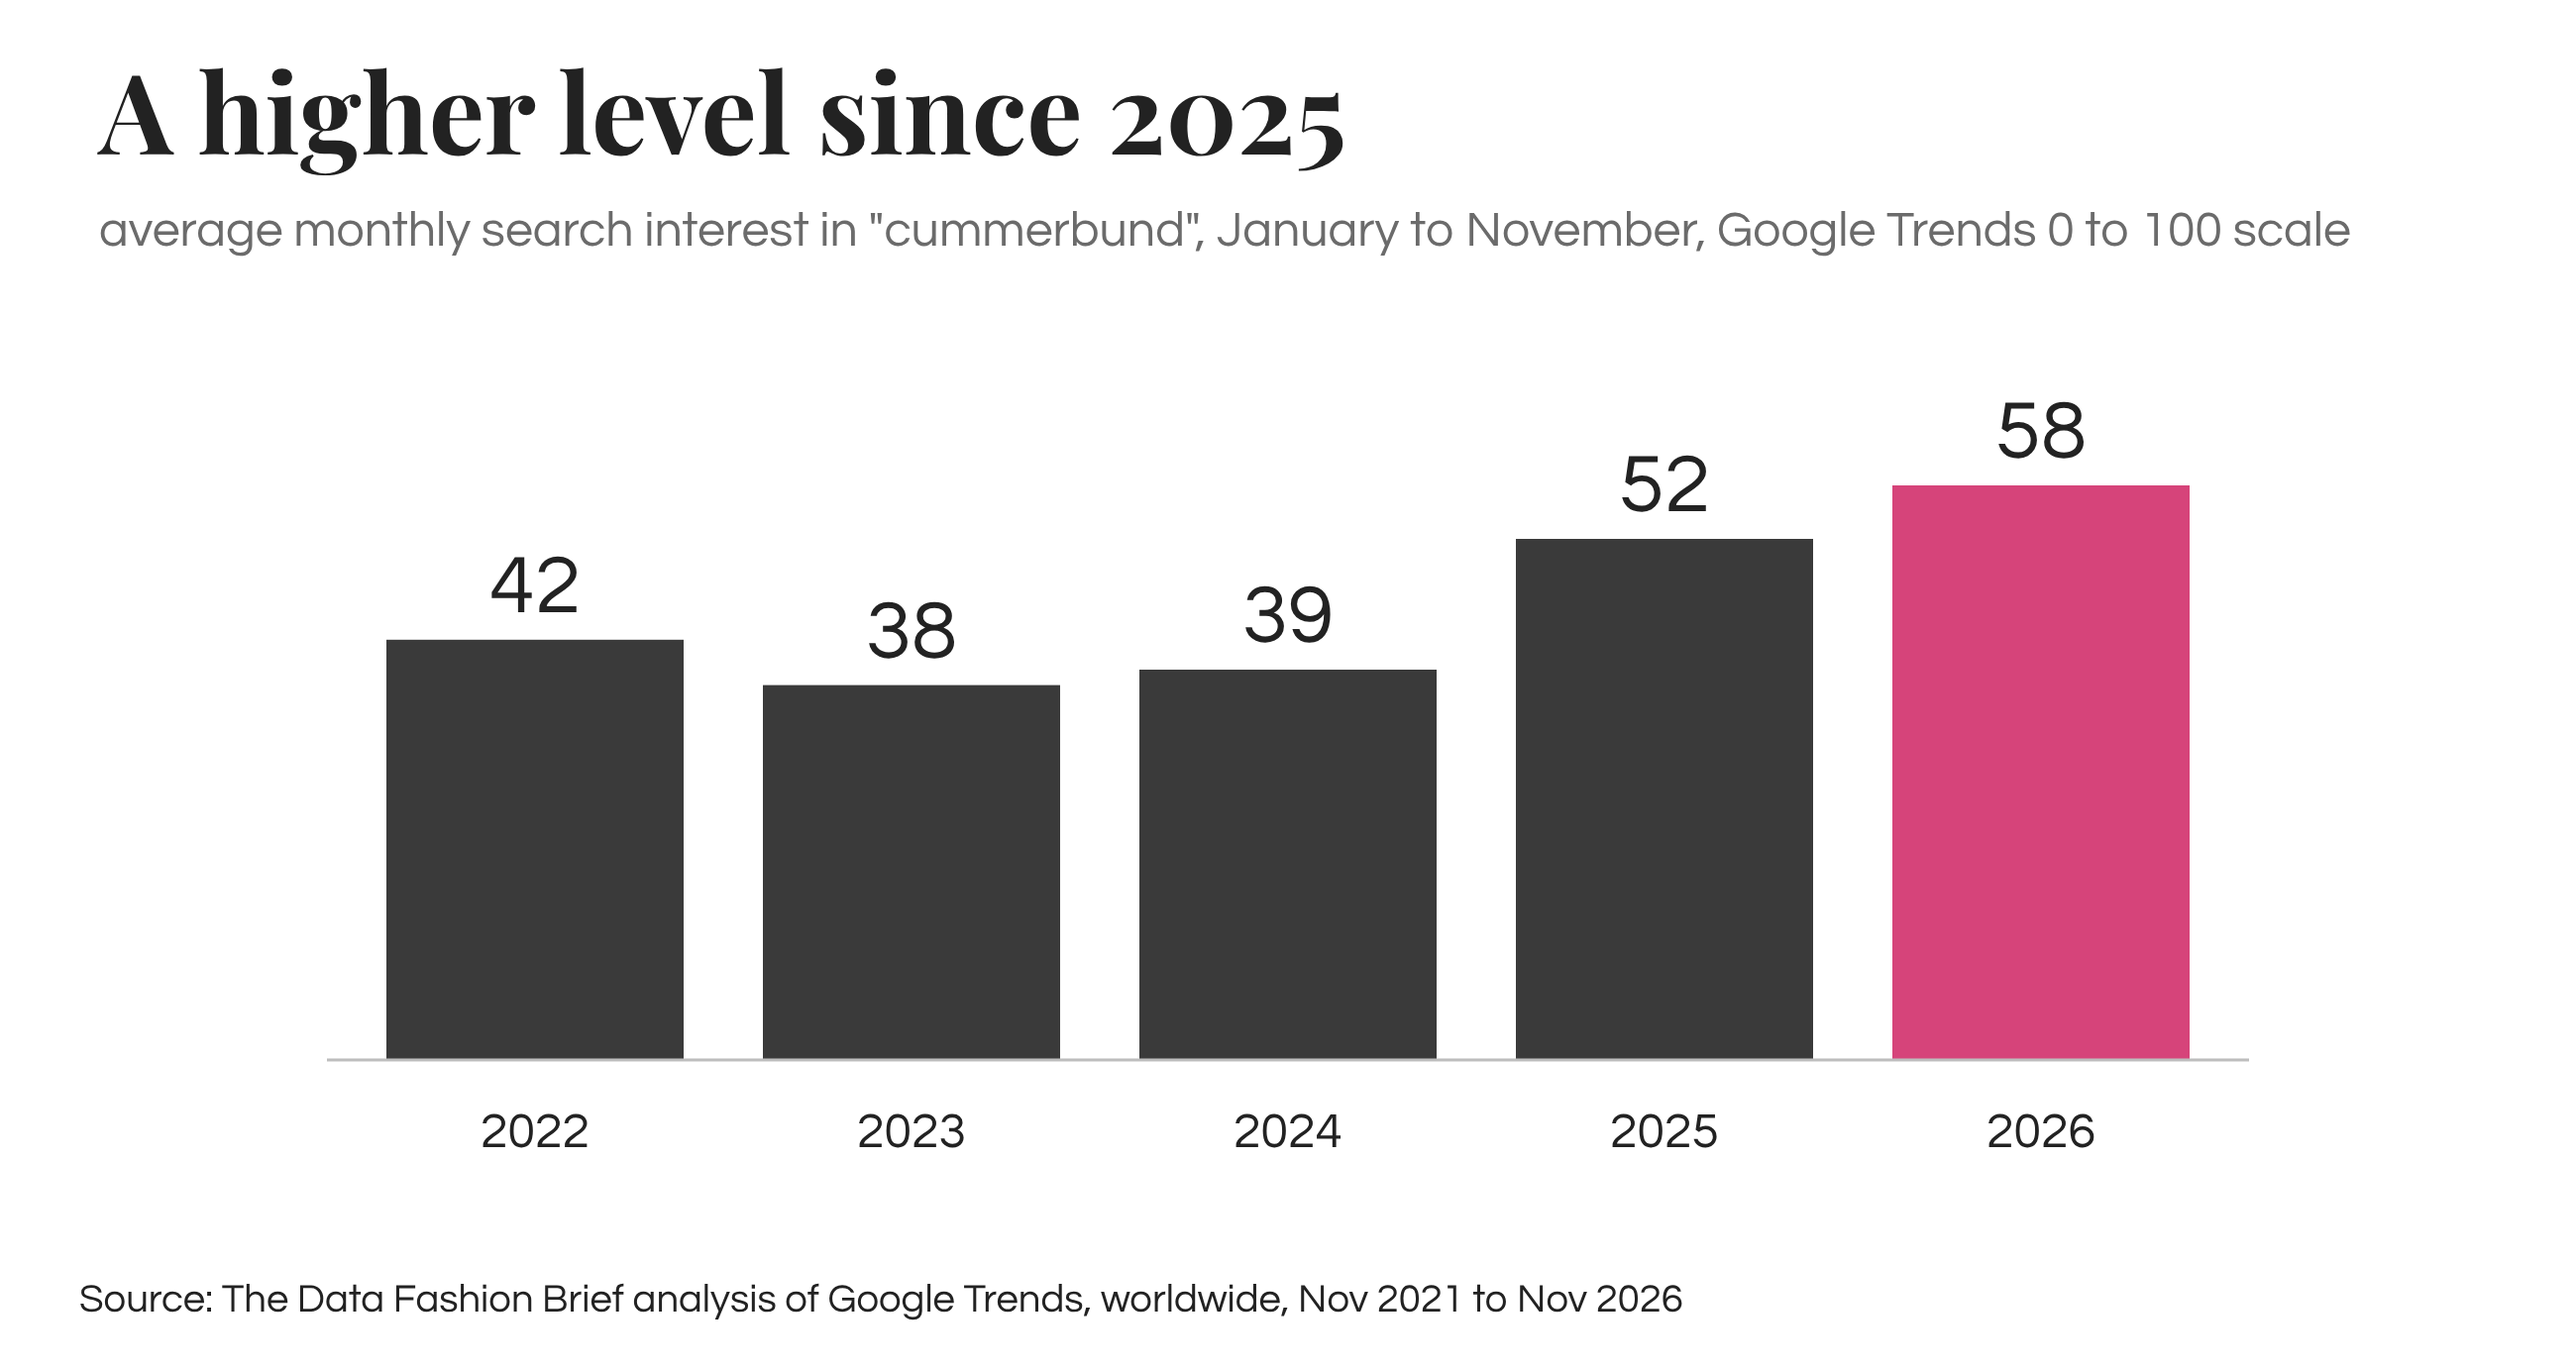
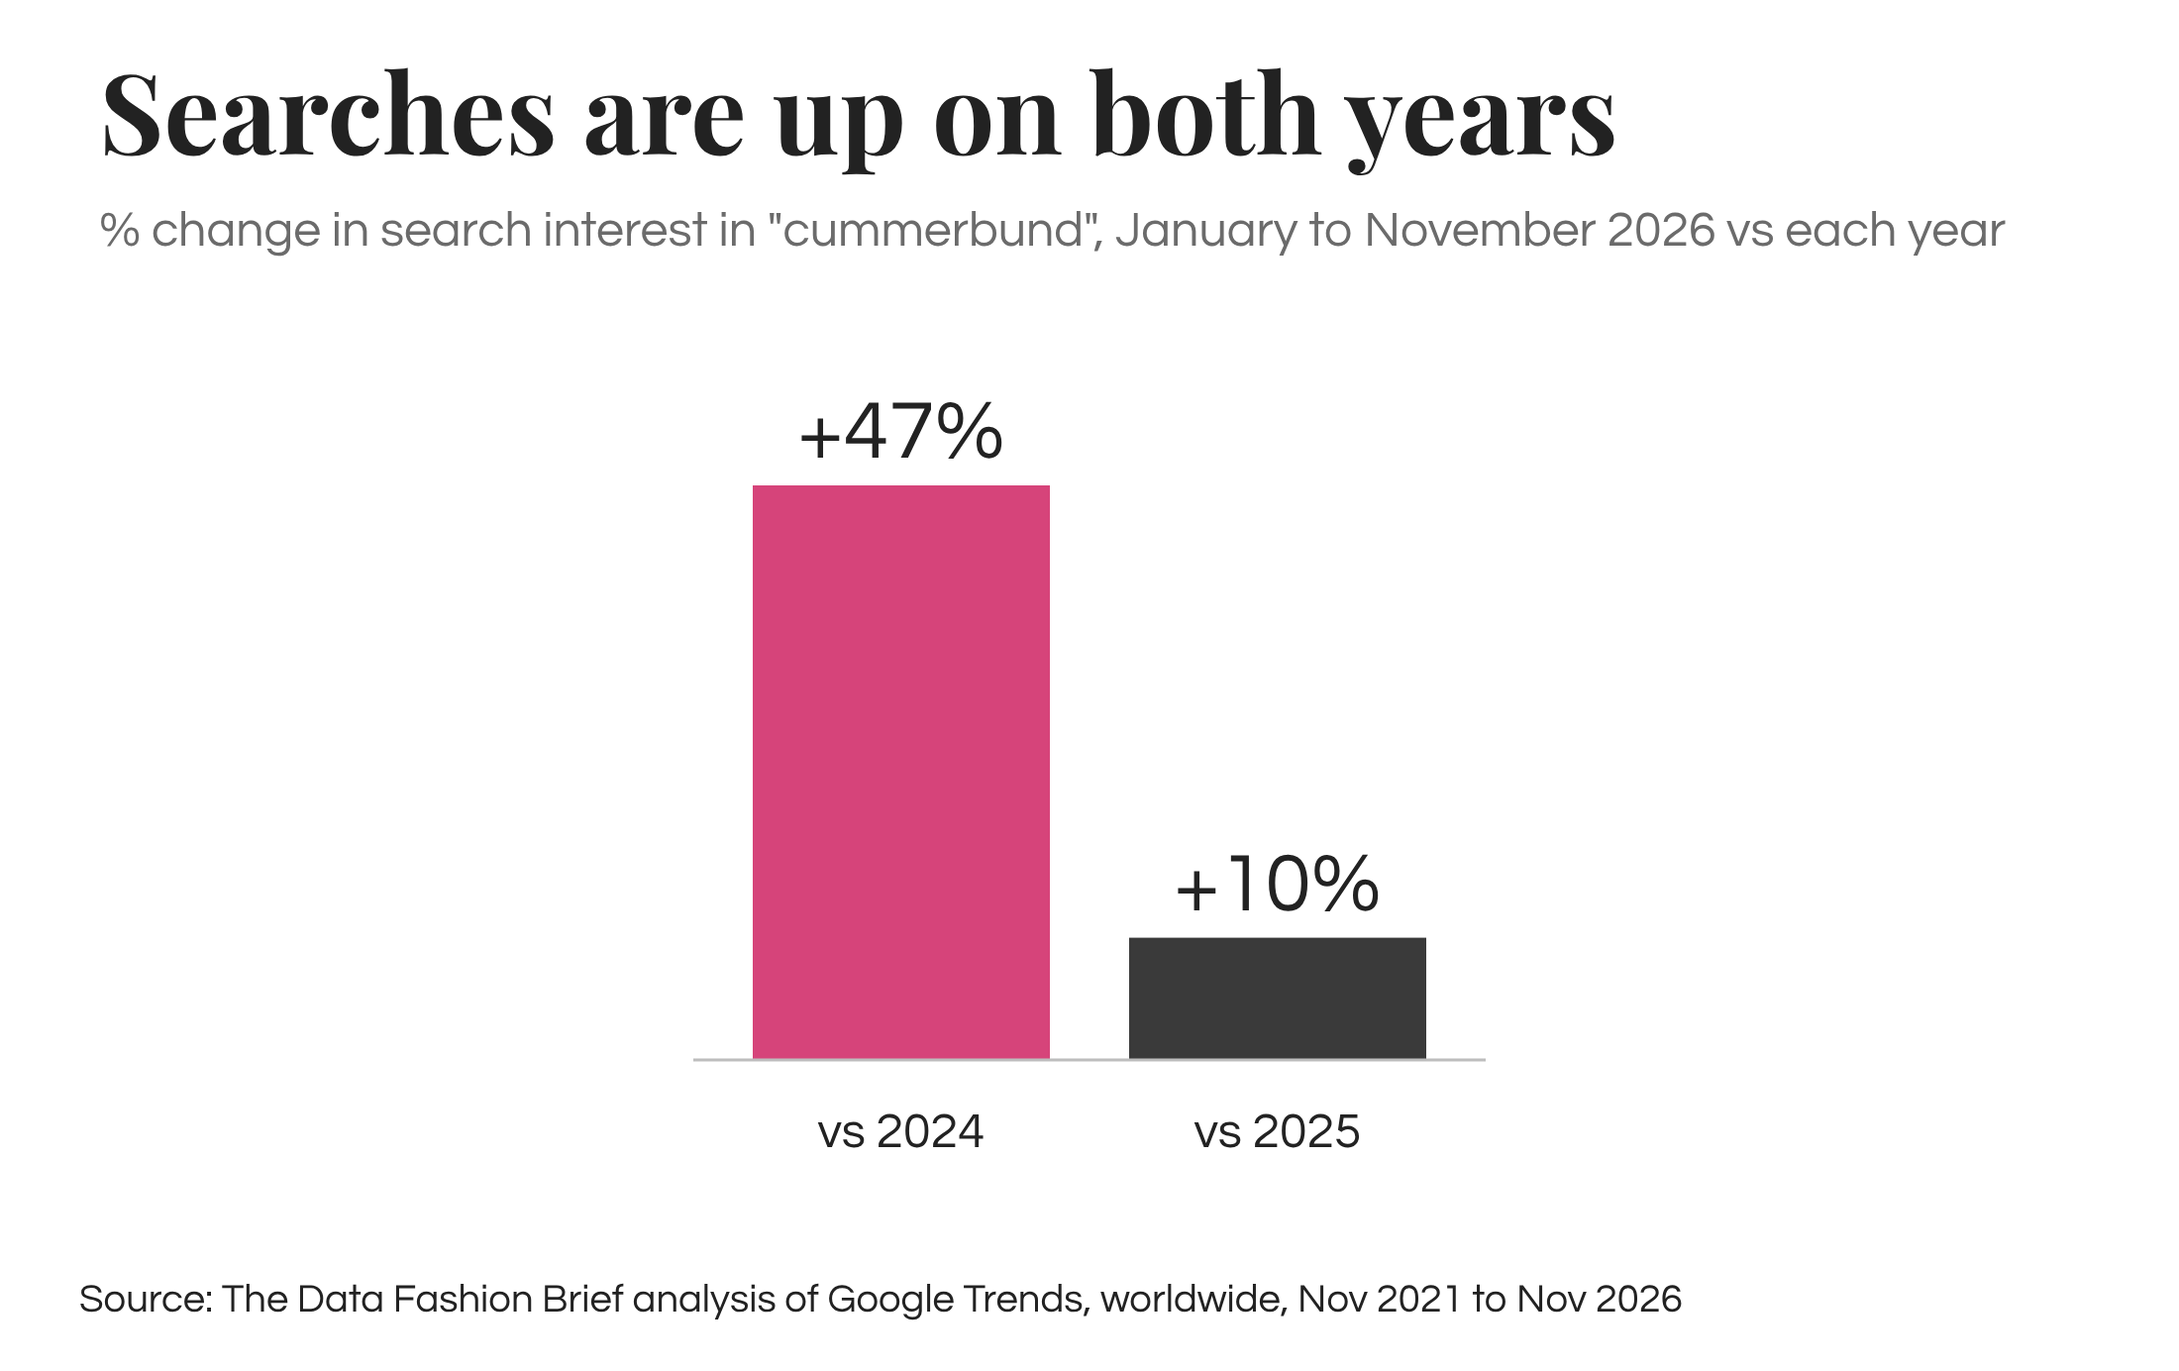
Cummerbund chart 3: show the two percentage increases instead of index values
Claude-Session: https://claude.ai/code/session_01N7aeZYmFhiXPCpFMXGKg34

diff --git a/drafts/fashionunited-cummerbund-charts/build_charts.py b/drafts/fashionunited-cummerbund-charts/build_charts.py
@@ -129,9 +129,9 @@ charts.append(line_chart('02-cummerbund-search', 'Search interest has settled hi
     ref=('2024 average', a2024),
     marks=(('2025-04-01', 'end', -18, 4), ('2026-04-01', 'middle', 0, -50))))
 
-charts.append(bar_chart('03-search-by-year', 'A higher level since 2025',
-    'average monthly search interest in "cummerbund", January to November, Google Trends 0 to 100 scale',
-    years, GT, fmt=lambda v: f'{half_up(v)}', highlight=(4,), W=1300))
+charts.append(bar_chart('03-search-by-year', 'Searches are up on both years',
+    '% change in search interest in "cummerbund", January to November 2026 vs each year',
+    [('vs 2024', up24), ('vs 2025', up25)], GT, fmt=lambda v: f'+{half_up(v)}%', highlight=(0,), W=1100))
 
 FONTS = '<link href="https://fonts.googleapis.com/css2?family=Playfair+Display:ital,wght@0,500;0,700;1,500&family=Questrial&display=swap" rel="stylesheet">'
 manifest = []
